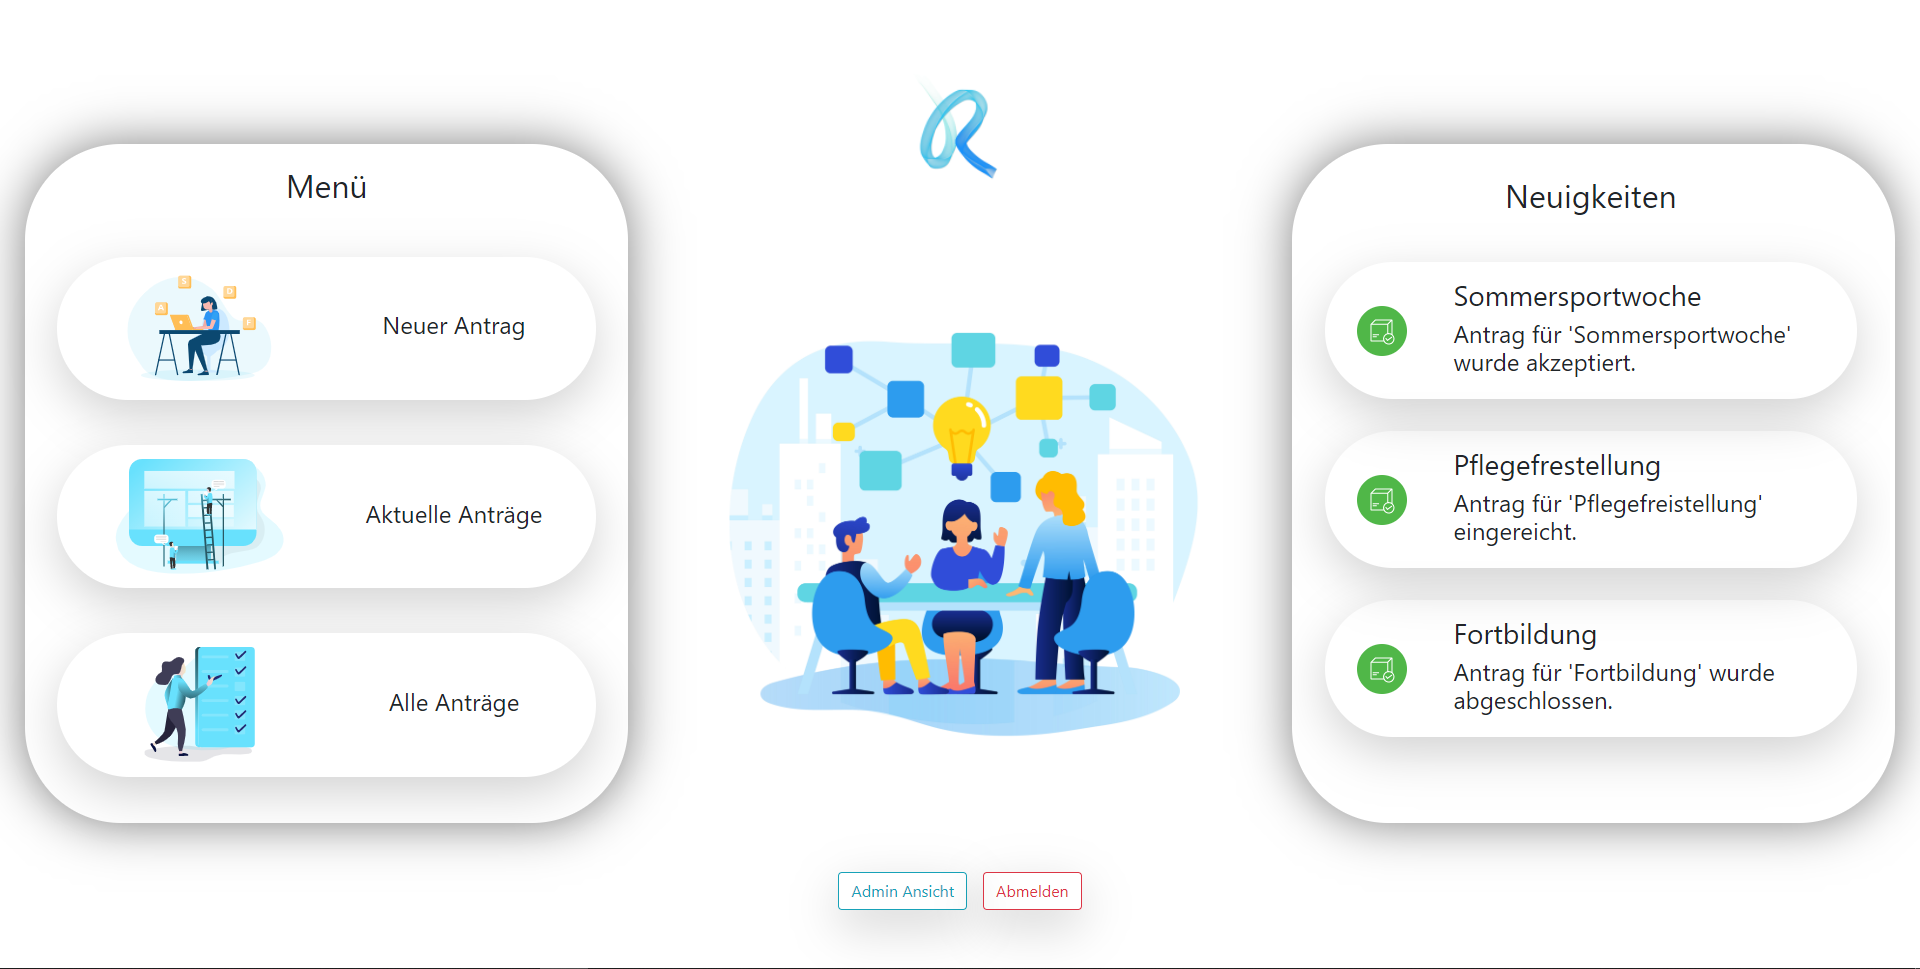
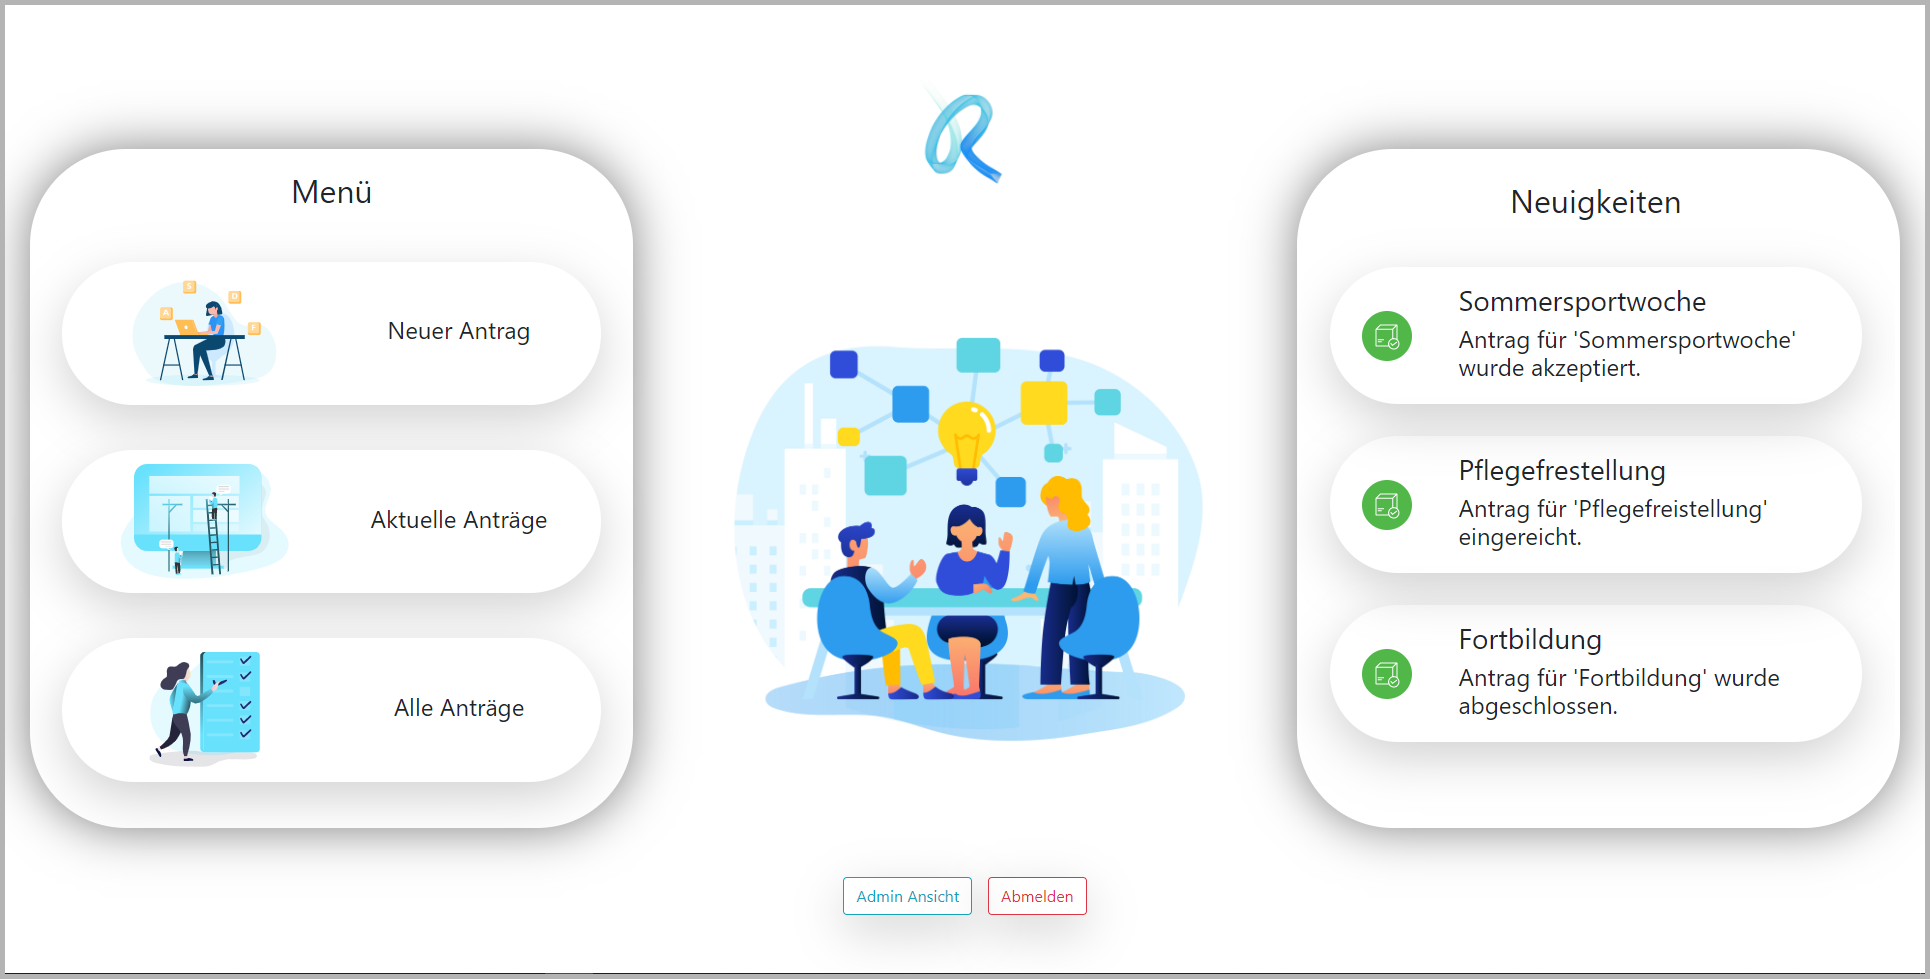
started work

diff --git a/chapters/implementierung/ldehner.tex b/chapters/implementierung/ldehner.tex
@@ -14,7 +14,7 @@ ein neues Vue Projekt erstellen, das in diesem Fall \enquote{Refundable} heißt 
 \begin{code}{bash}
 	npm install vue bootstrap-vue
 \end{code}
-Damit ist die Arbeit aber noch nicht getan, um in den Komponenten Bootstrap und dessen vordefinierte Icons zu verwenden, muss man 
+Damit ist die Arbeit aber noch nicht getan, um in den Komponenten Bootstrap und dessen vordefinierte Icons zu verwenden, muss man in \enquote{main.js} folgendes importieren:
 \begin{code}{html}
 	import { BootstrapVue, BootstrapVueIcons } from "bootstrap-vue";
 	import "./plugins/bootstrap-vue";
@@ -22,26 +22,333 @@ Damit ist die Arbeit aber noch nicht getan, um in den Komponenten Bootstrap und 
 	Vue.use(BootstrapVue);
 	Vue.use(BootstrapVueIcons);
 \end{code}
-
+Alle Teile der Website sind in sogenannten Komponenten verpackt, die je nach Benutzereingaben dynamisch gewechselt werden. 
 
 \newpage
-\subsection{Visuelle Konzeption}
-\paragraph{Login-Seite}
+\subsection{Komponenten der Website}
+\subsubsection{Generell}
+Die Struktur der Komponenten ist so aufgebaut, dass die Seite sowohl für Desktop- als auch mobile Endgeräte optimiert ist. Dazu wird das \enquote{Grid-System} von Bootstrap verwendet, welches seinen Platz im \enquote{template-Tag}, der VueJS Komponente findet. Dieses besteht aus einem Container, einer Reihe (Row) und einer Spalte (Column). Da es am Anfang das Problem gab, dass nicht der ganze Bildschirm ausgenutzt wird, habe ich folgende Klassen in unserem CSS-Dokument erstellt:
+\begin{code}{css}
+	.template-main-container {
+		height: 100vh;
+		width: 100vw;
+		margin: 0;
+		padding: 0;
+	}
+	
+	.template-main-row {
+		height: 100vh;
+		width: 100vw;
+		margin: 0;
+		padding: 0;
+	}
+\end{code}
+Diese dienen dazu, dass der Hauptcontainer, als auch die Hauptreihe der Website, 100\% der Höhe (100 vertikale Einheiten), sowie 100\% der Breite (100 horizontale Einheiten) einnehmen. Außerdem wird in den Klassen definiert, dass die Elemente keinen Abstand zum Rand haben sollen.
+\newpage
+\subsubsection{Login-Seite}
+Uns war sehr wichtig, dass die Login-Seite sehr schlicht gehalten ist und sofort zu verstehen ist. Da das Tool Refundable nur von Lehrern des TGMs verwendet werden soll, haben wir uns dazu entschlossen, dass in der Loginmaske die E-Mail-Endung \enquote{@tgm.ac.at} vordefiniert und unveränderbar ist. Außerdem wollten wir dem Aufrufer der Website sofort klar machen, um was es sich bei dieser Website handelt und haben daher den Projektnamen Refundable, als auch unseren Slogan auf der Seite platziert. Des weiteren war aufgrund der DSGVO eine Meldung zu realisieren, die den Benutzer darüber informiert, dass Cookies verwendet werden. Falls diese Meldung nicht akzeptiert wird und man versucht sich anzumelden, wird eine Fehlermeldung dargestellt. Diese Meldung wird jedoch dynamisch mit VueJS erstellt und nicht direkt mittels Bootstrap. In der Realität schaut die Login-Seite wie folgt aus (Abbildung 7.1):
+\begin{figure}[H]
+	\centering
+	\includegraphics[width=1\linewidth]{images/website/login}
+	\caption[Login]{Ein Bild der Endgültigen Login-Seite}
+	\label{fig:login}
+\end{figure}
+\paragraph{Login-Maske}
+~\\
+Die Login-Maske besteht aus einem eigenen Container, welcher ermöglicht die Maske vollkommen responsiv aufzubauen. Die Eingabefelder haben wir mit einer \enquote{input-groupe} gelößt (Code Z. 12). Um einen Wert optisch in einem Eingabefeld vorzugeben hat Bootstrap ein praktisches Element, namens \enquote{b-input-groupe-text} (Code Z. 14), welches vor oder nach dem Feld hinzugefügt werden kann. Da die Login-Daten, der TGM Server verwendet werden, haben wir einen Link eingebaut, falls man sein Passwort vergessen hat. Betätigt man diesen, wird man auf die entsprechende Seite des TGMs weitergeleitet.
+\begin{code}{html}
+	<!-- Anmeldungsformular -->
+	<b-col cols="12" md="6">
+		<b-container>
+			<b-row align-h="center">
+				<b-col cols="12" sm="10" md="10" lg="8" xl="6">
+					<b-container id="login-wrap" class="shadow-lg">
+						<b-row id="r-login" align-h="center">
+							<h2 id="lheading2">Anmeldung</h2>
+						</b-row>
+						<b-row align-h="center" id="r-email">
+							<b-col cols="12">
+								<!-- Input des Benutzernamens / der Email -->
+								<b-input-group size="lg">
+									<b-input-group-text
+										id="tgm-addon"
+										class="shadow"
+										slot="append"
+										><span>@tgm.ac.at</span></b-input-group-text
+										>
+									<b-form-input
+										id="email"
+										class="shadow login-inputs"
+										v-model="email"
+										type="text"
+										placeholder="E-Mail"
+										></b-form-input>
+										</b-input-group>
+							</b-col>
+						</b-row>
+						<b-row id="r-password">
+							<b-col cols="12">
+								<!-- Input des Passworts -->
+								<b-form-input
+									id="password"
+									class="shadow login-inputs"
+									v-model="password"
+									type="password"
+									placeholder="Password"
+									size="lg"
+								></b-form-input>
+							</b-col>
+						</b-row>
+						<b-row id="r-forgotten">
+							<b-col cols="12">
+								<!-- Passwort vergessen Weiterleitung auf Moodle -->
+								<a
+									id="forgotten-password"
+									href="https://elearning.tgm.ac.at/login/forgot_password.php"
+								>Passwort vergessen?</a
+								>
+							</b-col>
+						</b-row>
+						<b-row align-h="center" id="r-login-btn">
+							<!-- Login Button -->
+							<b-button size="lg" id="login-btn" v-on:click="login"
+							>Anmelden</b-button
+							>
+						</b-row>
+					</b-container>
+				</b-col>
+			</b-row>
+		</b-container>
+	</b-col>
+\end{code}
+Da einige Elemente unseren Ansprüchen optisch nicht genügt haben, haben wir eigene Änderungen in unserem CSS-Code hinzugefügt. Dabei wurde vor allem die Gestaltung, der Eingabefelder und des Buttons verändert, aber auch die des Containers, welcher die Maske beinhaltet. Genauer gesagt haben wir den Farbverlauf des Logos in der Maske eingebaut, die Ecken der Elemente etwas abgerundet und Schatten hinzugefügt.
+\begin{code}{css}
+/* -- Login -- */
+
+#login-wrap {
+	background: rgb(255, 255, 255);
+	background: -moz-linear-gradient(
+	0deg,
+	rgba(255, 255, 255, 1) 0%,
+	rgba(220, 248, 255, 1) 38%,
+	rgba(177, 239, 255, 1) 100%
+	);
+	background: -webkit-linear-gradient(
+	0deg,
+	rgba(255, 255, 255, 1) 0%,
+	rgba(220, 248, 255, 1) 38%,
+	rgba(177, 239, 255, 1) 100%
+	);
+	background: linear-gradient(
+	0deg,
+	rgba(255, 255, 255, 1) 0%,
+	rgba(220, 248, 255, 1) 38%,
+	rgba(177, 239, 255, 1) 100%
+	);
+	filter: progid: DXImageTransform.Microsoft.gradient(startColorstr="#ffffff", endColorstr="#b1efff", GradientType=1);
+	padding: 1.5rem;
+	border-radius: 2.5rem;
+}
+
+#email {
+	border-radius: 1rem 0 0 1rem;
+}
+
+#tgm-addon {
+	border-radius: 0 1rem 1rem 0;
+}
+
+.input-group-append {
+	border-radius: 0 1rem 1rem 0;
+}
+
+.input-group-text {
+	border-radius: 0 1rem 1rem 0;
+}
+
+#password {
+	border-radius: 1rem 1rem 1rem 1rem;
+}
+
+#login-btn {
+	font-family: "Rajdhani", sans-serif;
+	padding: 0.5rem 1.5rem 0.5rem 1.5rem;
+	font-size: 1.3rem;
+	letter-spacing: 2.5px;
+	font-weight: 500;
+	color: #000;
+	background-color: rgba(177, 239, 255, 1);
+	border: none;
+	border-radius: 45px;
+	box-shadow: 0px 8px 15px rgba(0, 0, 0, 0.3);
+	transition: all 0.3s ease 0s;
+	cursor: pointer;
+	outline: none;
+}
+
+#login-btn:hover {
+	background-color: #2ec0e5;
+	box-shadow: 0px 15px 20px rgba(46, 229, 157, 0);
+	color: #fff;
+	transform: translateY(3px);
+}
+\end{code}
+\paragraph{Cookie-Meldung}
+~\\
+Die Meldung, dass Cookies benutzt werden, sollte schlicht und einfach sein. Außerdem haben wir uns als Ziel gesetzt, dass sie dem Nutzer deutlich klar machen soll, dass wir ausschließlich funktionelle und notwendige Cookies verwenden. Für diese Meldung hat sich perfekt das vordefinierte \enquote{Alert-Element} von Bootstrap geeignet:
+\begin{code}{html}
+	<!-- Bestätigung, dass diese Seite Cookies benutzt -->
+	<b-alert
+		v-model="showBottom"
+		class="position-fixed fixed-bottom m-0 rounded-0"
+		style="z-index: 2000;"
+		variant="warning"
+		dismissible
+	>
+		Diese Seite <b>benötigt</b> Cookies um zu funktionieren. Dies sind nur
+		funktionelle Cookies, wir sammeln Ihre Daten <b>nicht</b>. Alle benötigten
+		Cookies
+		<!-- Button zum akzeptieren -->
+		<b-button variant="success" @click="validateCookies()"
+			>akzeptieren
+		</b-button>
+	</b-alert>
+\end{code}
+
+\newpage
+\subsubsection{Startseite}
+Die Startseite sollte so intuitiv und übersichtlich wie möglich sein. Deswegen haben wir uns für ein \enquote{Drei Spalten Design} entschieden. In der ersten Spalte befinden sich alle wichtigen Funktionen - drei Knöpfe, zum erstellen von neuen Anträgen, um alle aktiven Anträge anzuschauen und um alle Anträge zu betrachten, die man jemals gestellt hat. In der 2. Spalte befindet sich das Logo, eine Illustration für das Dashboard und ein Knopf zum Ausloggen. Falls man ein Administrator ist, wird hier ebenfalls ein Knopf, zum wechseln in die Administratoransicht angezeigt. In der dritten Spalte werden Neuigkeiten zu den Anträgen des Benutzers angezeigt, falls man auf eine Neuigkeit klickt, wird man zu dem jeweiligen Antrag weitergeleitet. In der Realität schaut die Startseite wie folgt aus (Abbildung 7.2):
+\begin{figure}[H]
+	\centering
+	\includegraphics[width=1\linewidth]{images/website/dashboard}
+	\caption[Dashboard]{Ein Bild der Endgültigen Startseite}
+	\label{fig:dashboard}
+\end{figure}
+Jedoch ist dieses System auf mobilen Geräten nicht sonderlich übersichtlich, deshalb haben wir diese etwas abgeändert. Diese ist sehr schlicht gehalten, jedoch macht dies das Ganze auf Smartphones um einiges einfacher die Website zu bedienen. Die mobile Version der Startseite schaut in der Realität wie folgt aus (Abbildung 7.3):
+\begin{figure}[H]
+	\centering
+	\includegraphics[width=0.4\linewidth]{images/website/dashboard_mobile}
+	\caption[Dashboard Mobil]{Ein Bild der Endgültigen Startseite (Mobil)}
+	\label{fig:dashboardmobile}
+\end{figure}
+
+\paragraph{Menü-Element Desktop}
+~\\
+Der Container mit den Funktionselementen, hat wie beim Login einen Schatten, der ihn von dem Hintergrund abhebt. In diesem Container befinden sich die Menü Bezeichnung und die klickbaren Elemente, die auch aus einem Container bestehen und eine responsive Illustration, die zu der jeweiligen Funktion passt und eine Bezeichnung, was dieser Knopf auslöst beinhaltet.
+\begin{code}{html}
+<b-col id="dash-main-cont" class="d-none d-md-block" cols="12" md="4">
+	<b-container>
+		<b-row
+			id="dash-row"
+			align-v="center"
+			align-h="center"
+			class="shadow-xl"
+		>
+			<b-col cols="12">
+				<center><h2 id="menu-h2">Menü</h2></center>
+			</b-col>
+			<!-- Custom Button für einen neuen Antrag -->
+			<b-col
+				id="new"
+				cols="12"
+				class="shadow-lg dash-elem"
+				v-on:click="newApplication"
+			>
+				<b-container style="height: 100%">
+					<b-row align-h="center" align-v="center" style="height: 100%">
+						<b-col cols="6" class="ill-wrapper d-none d-md-block">
+						<!-- Illustration neuer Antrag -->
+							<b-img
+								id="all-ill"
+								center
+								src="@/assets/new.svg"
+								alt="Illustration für alle Anträge"
+							></b-img>
+						</b-col>
+						<b-col cols="12" md="6">
+							<h2 id="new-h2" class="dh">Neuer Antrag</h2>
+						</b-col>
+					</b-row>
+				</b-container>
+			</b-col>
+			
+			...
+		</b-row>
+	</b-container>
+</b-col>
+\end{code}
+Optisch wurde vor allem die Höhe des umschließenden Containers verändert, und dessen umliegende Abstände. Wie man auf der Abbildung 7.2 sehen kann wurden hier auch wieder die Ecken abgerundet. Was man jedoch nicht sehen kann, ist, dass sich die Funktionselemente, optisch absenken und der Schatten entfernt wird und die Farbe verändert wird, wenn man mit der Maus, die sich zu einer zeigenden Hand verändert, über das Element fährt. 
+\begin{code}{css}
+#dash-main-cont {
+	height: 70vh;
+}
+
+#dash-row {
+	height: 70vh;
+	padding-left: 2rem;
+	padding-right: 2rem;
+	padding-bottom: 1.5rem;
+}
+
+.dash-elem {
+	background-color: rgb(255, 255, 255);
+	height: 22%;
+	transition: all 0.3s ease 0s;
+	cursor: pointer;
+	outline: none;
+}
+
+.dash-elem:hover {
+	background-color: #8ff2ff;
+	box-shadow: 0px 0px 50px rgba(0, 0, 0, 0.144);
+	color: rgb(141, 141, 141);
+	transform: translateY(3px);
+}
+
+#dash-row {
+	border-radius: 6rem 6rem 6rem 6rem;
+}
+\end{code}
+\paragraph{Menü-Element Mobil}
 ~\\
 
-\paragraph{Startseite}
+\paragraph{Neuigkeiten-Element}
 ~\\
 
-\paragraph{Neuer Antrag}
+\newpage
+\subsubsection{Neuer Antrag}
 ~\\
 
-\paragraph{Ansicht Alle Anträge}
+\newpage
+\subsubsection{Ansicht Alle Anträge}
 ~\\
 
-\paragraph{Ansicht Aktive Anträge}
+\newpage
+\subsubsection{Ansicht Aktive Anträge}
 ~\\
 
-\paragraph{Administrator Ansicht}
-
-\paragraph{Antragsansicht}
+\newpage
+\subsubsection{Antragsansicht}
 ~\\
+
+\newpage
+\subsubsection{Administrator Ansicht}
+~\\
+
+\newpage
+\paragraph{Administrator Antragsansicht}
+~\\
+
+\newpage
+\subsubsection{Seite nicht Gefunden}
+~\\
+
+\newpage
+\subsubsection{Antrag suchen}
+~\\
+
+\newpage
+\subsubsection{Rechte vergeben}
+~\\
+
+

diff --git a/chapters/studie/ldehner.tex b/chapters/studie/ldehner.tex
@@ -75,7 +75,7 @@
 		\begin{code}{html}
 			<h1 style="text-align: center; font-size: 40pt; font-family: sans-serif;">Ich bin eine tolle Überschrift</h1>
 		\end{code}
-		Man kann auch im \enquote{head} einen \textit{style-Bereich} eröffnen und dort das Aussehen verändern. Dabei ist darauf zu achten, dass man den Style von allen Elementen mit dem Tag, den man ausgewählt hat verändert. Um dies zu verhindern kann man Elementen auch eine \textit{ID} (für einzelne Elemente verwendbar), oder eine \textit{CLASS} (für mehrere Elemente verwendbar) hinzufügen und diese im CSS-Code auswählen und verändern:
+		Man kann auch im \enquote{head} einen \textit{style-Bereich} eröffnen und dort das Aussehen verändern. Dabei ist darauf zu achten, dass man den Style von allen Elementen mit dem Tag, den man ausgewählt hat verändert. Um dies zu verhindern kann man Elementen auch eine \textit{ID} (für einzelne Elemente verwendbar), oder eine \textit{CLASS} (für mehrere Elemente verwendbar) hinzufügen, sowie diese im CSS-Code auswählen und verändern:
 		\begin{code}{html}
 				<head>
 					<style>
